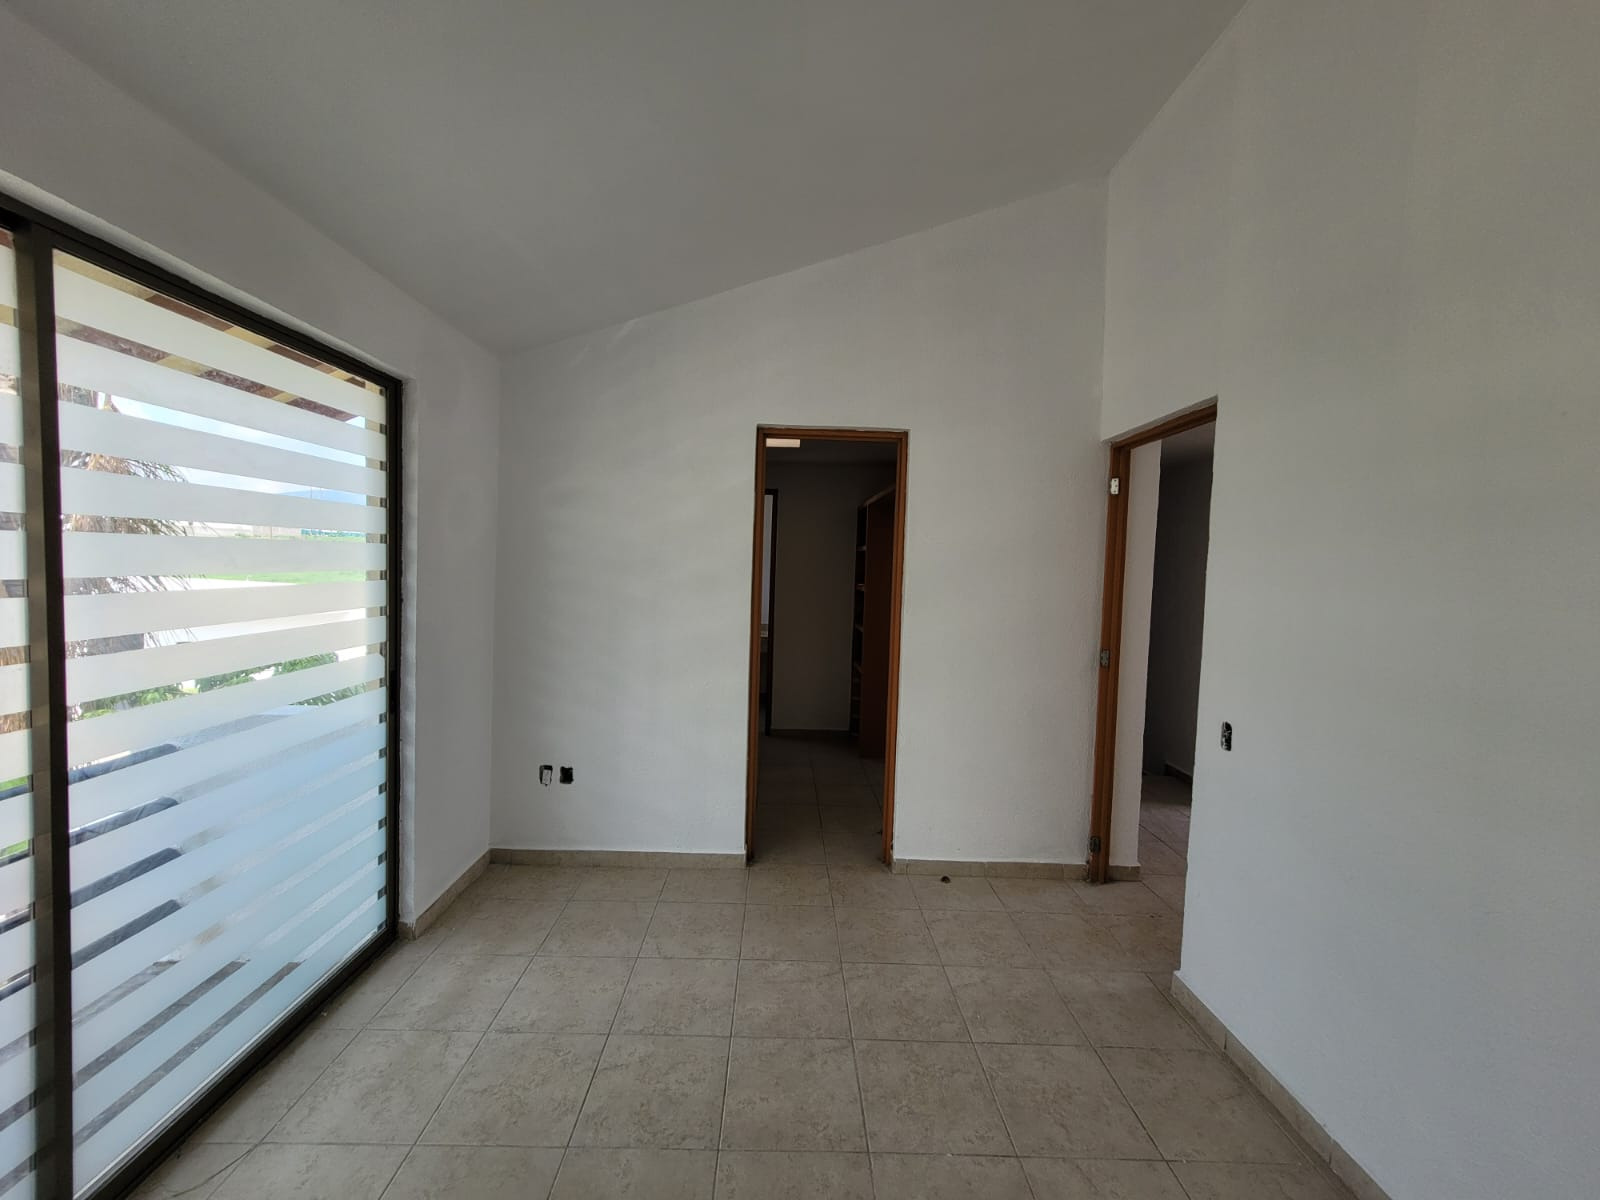
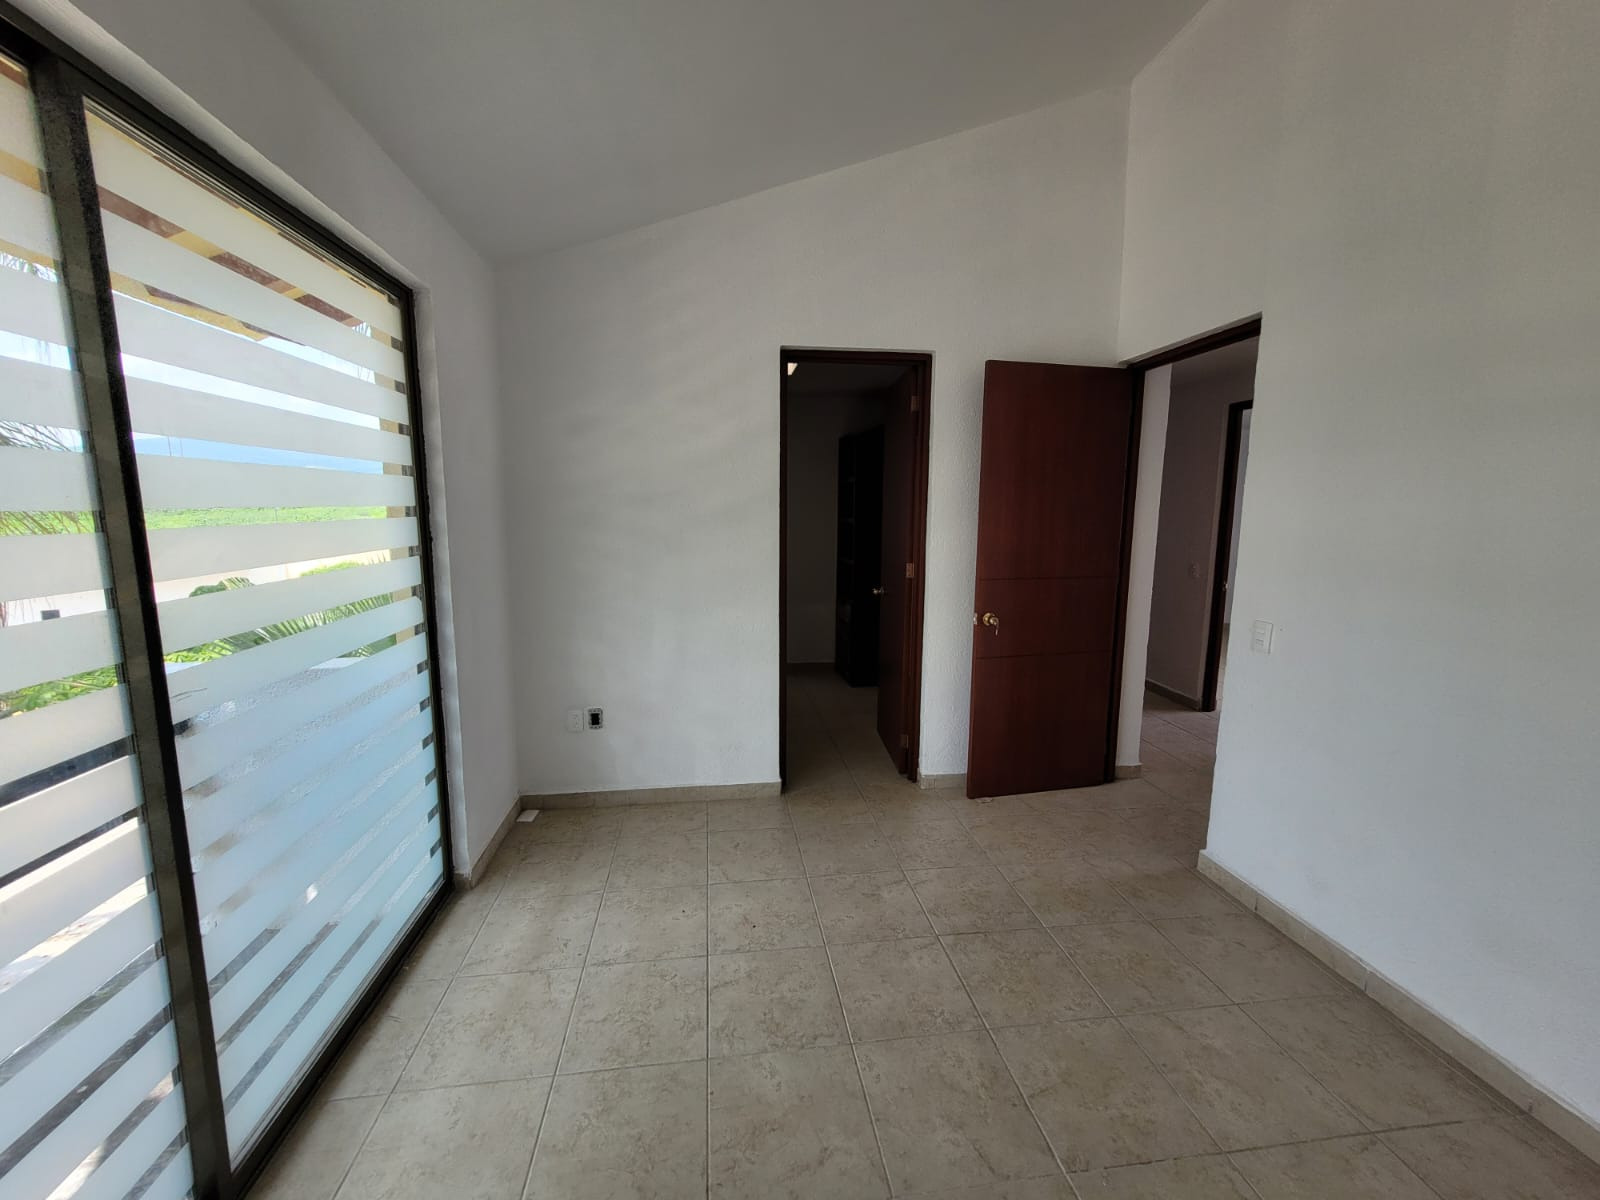
v0.24.4 se actualizan las imagenes de hogar ambar

diff --git a/templates/galeria/hogar-ambar/_galeria_hogar_ambar.php b/templates/galeria/hogar-ambar/_galeria_hogar_ambar.php
@@ -1,7 +1,7 @@
 <?php
 $a = $generales->url_base."assets/img/venta_casas/hogar_ambar/1Fachada/fachada_1.jpg";
-$b = $generales->url_base."assets/img/venta_casas/hogar_ambar/5Baño1/baño_1.jpg";
-$c = $generales->url_base."assets/img/venta_casas/hogar_ambar/4Recamara2/recamara2_2.jpg";
+$b = $generales->url_base."assets/img/venta_casas/hogar_ambar/5Baño1/baño1_1.jpg";
+$c = $generales->url_base."assets/img/venta_casas/hogar_ambar/4Recamara3/recamara3_3.jpg";
 ?>
 
 
